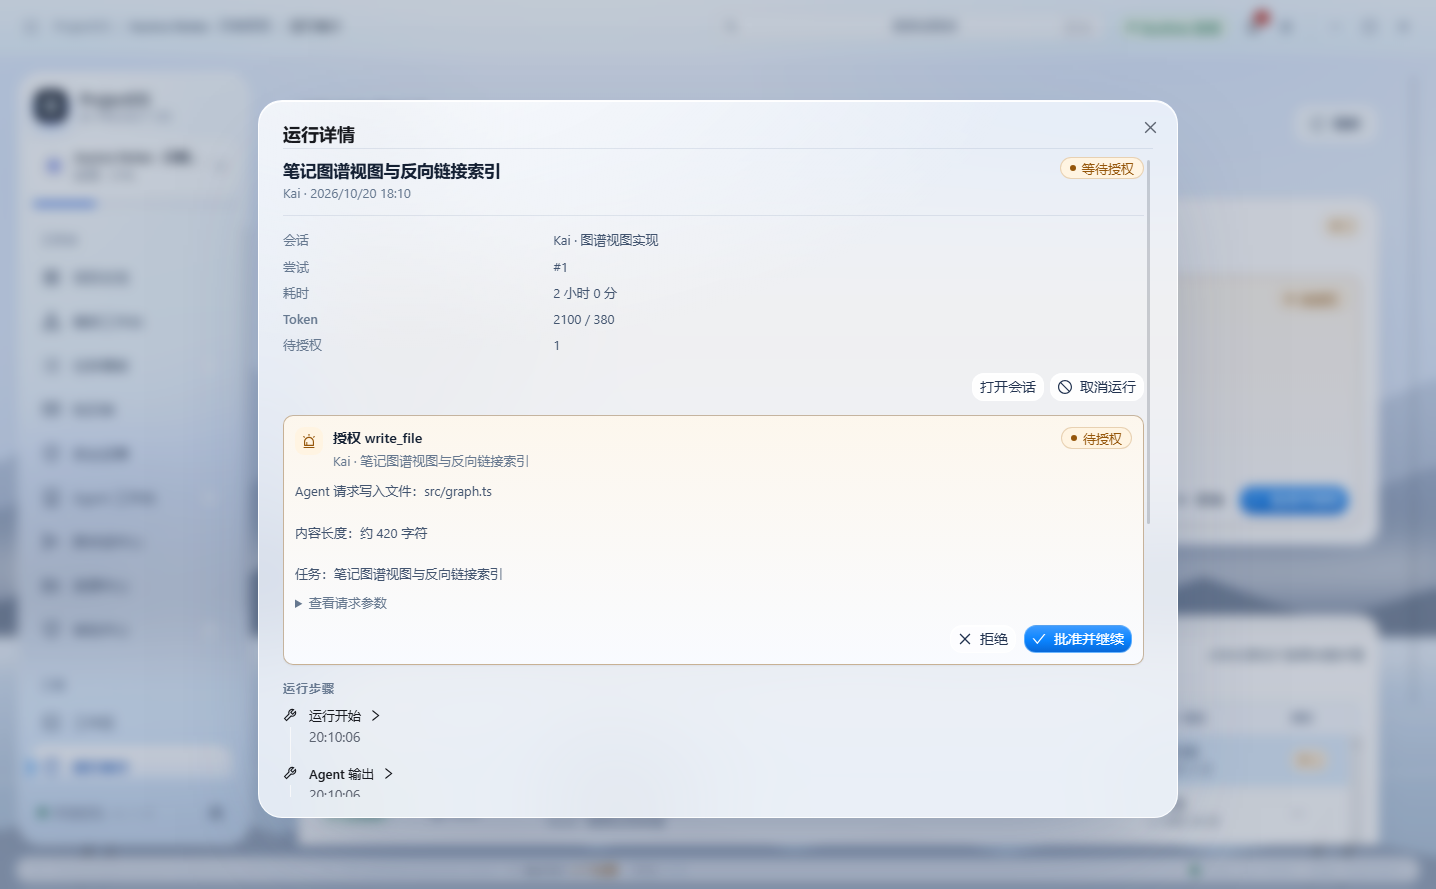
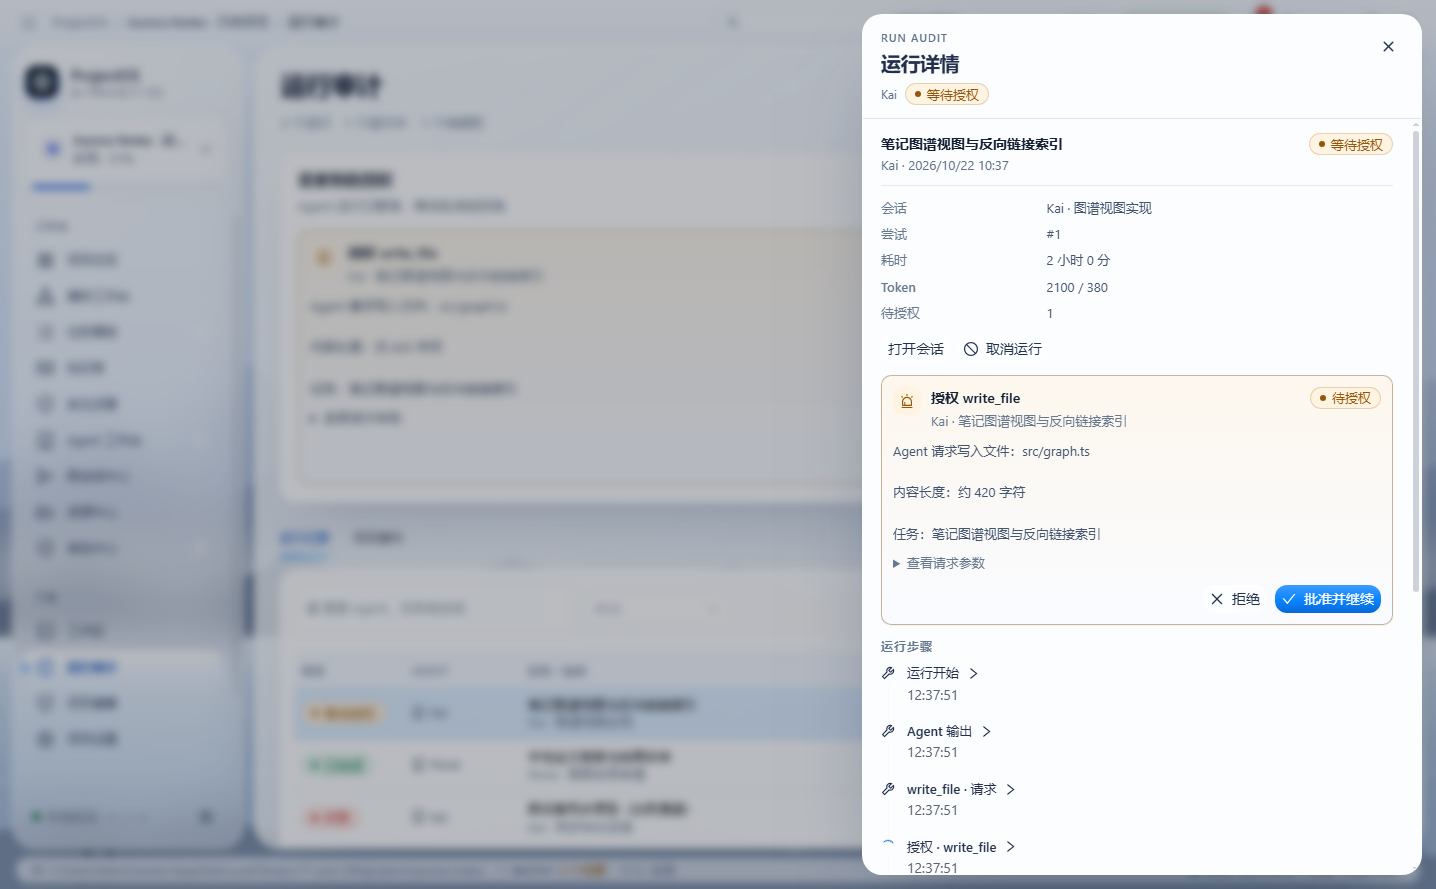
feat(next-ui): move run audit to sheet and reconcile dialog

diff --git a/apps/desktop/src/renderer/src/pages/RunsPage.tsx b/apps/desktop/src/renderer/src/pages/RunsPage.tsx
@@ -5,7 +5,6 @@ import {
   App as AntApp,
   Button,
   Input,
-  Modal,
   Select,
   Table,
   Tabs,
@@ -34,6 +33,7 @@ import { useApprovals, useProjectEvents, useRunDetail, useRuns } from '../lib/qu
 import { formatDateTime, formatDuration, formatRelative } from '../lib/format'
 import { runStatusLabel } from '../lib/labels'
 import { errorMessage } from '../lib/errors'
+import { DialogShell, OverlayFooter, OverlayHeader, OverlayScrollArea, SheetShell } from '../next-ui/overlay/overlay-shell'
 
 const ACTIVE = new Set(['created', 'queued', 'running', 'waiting_tool', 'waiting_approval', 'verifying', 'suspended'])
 
@@ -277,15 +277,9 @@ export default function RunsPage() {
                 )}
               </div>
 
-              <Modal
-                open={detailOpen && Boolean(selectedRun)}
-                onCancel={() => setDetailOpen(false)}
-                footer={null}
-                width={920}
-                className="po-run-detail-modal"
-                title="运行详情"
-                styles={{ body: { maxHeight: '72vh', overflow: 'auto' } }}
-              >
+              <SheetShell open={detailOpen && Boolean(selectedRun)} onOpenChange={(open) => { if (!open) setDetailOpen(false) }} ariaLabel="运行详情" width={920} testId="run-detail-sheet">
+                <OverlayHeader eyebrow="RUN AUDIT" title="运行详情" closeLabel="关闭运行详情" meta={selectedRun ? <><span>{selectedRun.agentName}</span><StatusPill tone={toneForStatus(selectedRun.status)}>{runStatusLabel(selectedRun.status)}</StatusPill></> : null} />
+                <OverlayScrollArea className="po-run-detail-scroll">
                 {!selectedRun ? null : runDetail.isLoading ? (
                   <LoadingBlock rows={6} />
                 ) : runDetail.isError || !runDetail.data ? (
@@ -384,21 +378,11 @@ export default function RunsPage() {
                     />
                   </div>
                 )}
-              </Modal>
-              <Modal
-                title="人工核对运行"
-                open={reconcileOpen && Boolean(selectedRun)}
-                onCancel={() => setReconcileOpen(false)}
-                onOk={() => {
-                  if (!selectedRun) return
-                  reconcile.mutate({ runId: selectedRun.id, decision: reconcileDecision, note: reconcileNote })
-                }}
-                okText="记录核对"
-                cancelText="取消"
-                confirmLoading={reconcile.isPending}
-                width={520}
-                destroyOnHidden
-              >
+                </OverlayScrollArea>
+              </SheetShell>
+              <DialogShell open={reconcileOpen && Boolean(selectedRun)} onOpenChange={(open) => { if (!open) setReconcileOpen(false) }} ariaLabel="人工核对运行" width={520}>
+                <OverlayHeader eyebrow="RECONCILIATION" title="人工核对运行" closeLabel="关闭人工核对" />
+                <OverlayScrollArea className="po-reconcile-scroll">
                 <p className="po-muted">
                   该运行在 Runtime 中断后状态未知。核对不会自动重复执行可能已写盘或产生外部副作用的操作；
                   原始 Run、ToolCall 和 RunStep 会保留。
@@ -419,7 +403,15 @@ export default function RunsPage() {
                   onChange={(event) => setReconcileNote(event.target.value)}
                   placeholder="说明你核对到的实际状态、已验证的文件/命令，以及为什么可以继续。"
                 />
-              </Modal>
+                </OverlayScrollArea>
+                <OverlayFooter>
+                  <Button onClick={() => setReconcileOpen(false)}>取消</Button>
+                  <Button type="primary" loading={reconcile.isPending} onClick={() => {
+                    if (!selectedRun) return
+                    reconcile.mutate({ runId: selectedRun.id, decision: reconcileDecision, note: reconcileNote })
+                  }}>记录核对</Button>
+                </OverlayFooter>
+              </DialogShell>
               </>
             ),
           },
@@ -454,5 +446,3 @@ export default function RunsPage() {
     </div>
   )
 }
-
-

diff --git a/apps/desktop/src/renderer/src/styles/next-ui-app.css b/apps/desktop/src/renderer/src/styles/next-ui-app.css
@@ -634,3 +634,7 @@
 }
 
 .pui-overlay-scroll.po-advance-scroll { padding: 14px 18px 8px; }
+
+.pui-overlay-scroll.po-run-detail-scroll { padding: 0 18px 18px; }
+.pui-overlay-scroll.po-run-detail-scroll .po-run-detail { padding-top: 14px; }
+.pui-overlay-scroll.po-reconcile-scroll { padding: 14px 18px 8px; }

diff --git a/docs/next-ui/MIGRATION_PROGRESS.md b/docs/next-ui/MIGRATION_PROGRESS.md
@@ -48,7 +48,7 @@ Status legend: `not-started`, `in-progress`, `migrated`, `blocked`, `not-applica
 | 13 | Approvals `/approvals` | `pages/ApprovalsPage.tsx` | approval decisions | approval detail | not-started |
 | 14 | Project Settings `/project-settings` | `pages/ProjectSettingsPage.tsx` | project config, policy | forms | not-started |
 | 15 | Project Health `/health` | `pages/ProjectHealthPage.tsx` | health checks, repair | repair dialogs | not-started |
-| 16 | Runs `/runs` | `pages/RunsPage.tsx` | run list/detail, reconcile | run detail modal, reconcile modal | not-started |
+| 16 | Runs `/runs` | `pages/RunsPage.tsx` | run list/detail, reconcile | SheetShell detail, DialogShell reconcile | in-progress — overlays migrated; page composition pending |
 | 17 | Settings (global modal) | `features/settings/SettingsModal.tsx` + panels | AI connections, models, runtime, skills, tools | shared DialogShell + InspectorShell | in-progress — overlays migrated; content composition polish pending |
 | 18 | Design Lab `#/design-lab` | `features/design-lab/` | prototype | Inspector, Agent, Approval | migrated baseline |
 
@@ -187,3 +187,13 @@ Known in this slice:
 - Cross-session message composer moved to `DialogShell`.
 - Real send mutation, wake switch and delivery semantics retained.
 - `v17-collaboration-link-e2e.mjs` PASS.
+
+
+## Slice 7 — Run audit Sheet + reconcile Dialog
+
+- Run detail moved from a 920px Ant Modal to `SheetShell`; the audit timeline,
+  approval block and artifacts retain real data.
+- Human reconciliation moved to `DialogShell`; the original Run/ToolCall/Step
+  records are preserved and no side effect is retried automatically.
+- `v17-run-audit-modal-e2e.mjs` PASS.
+- Evidence: `docs/next-ui/screens/run-detail-sheet.png`.
